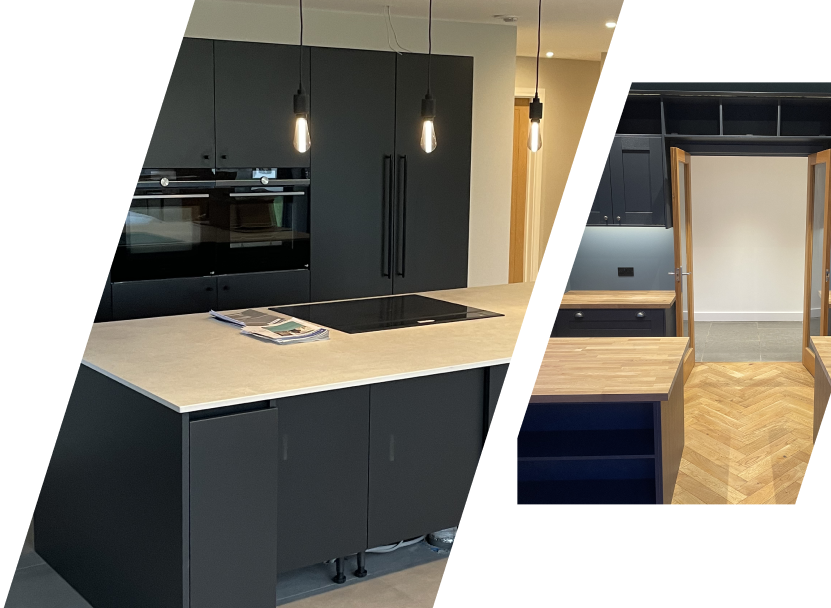
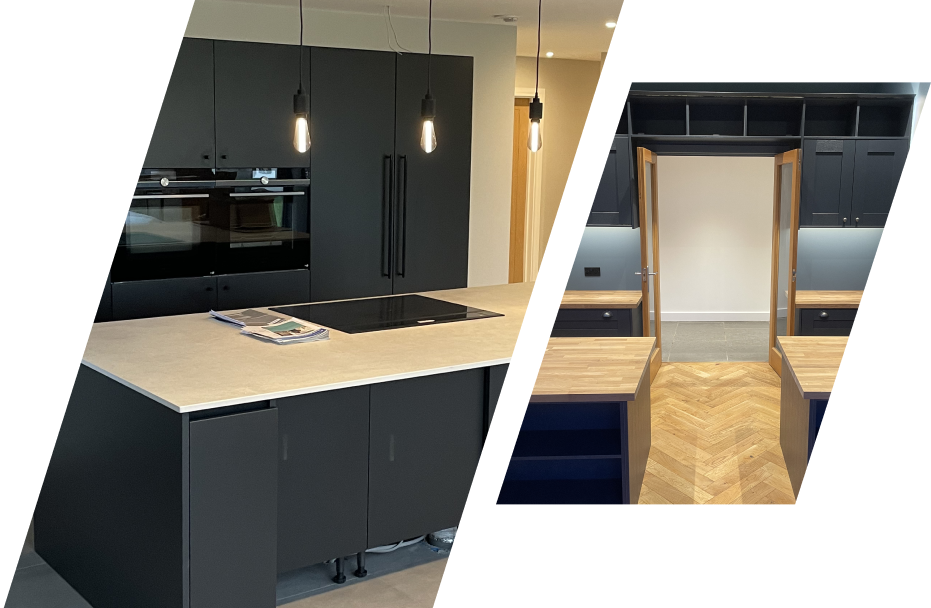
Updated hero area

diff --git a/css/hero.css b/css/hero.css
@@ -36,18 +36,22 @@
 }
 
 @media (min-width: 768px) {
+    .hero h1, .hero p {
+        max-width: 58%;
+    }
     .hero-container {
         height: 600px;
         align-items: flex-start;
+        background-size: unset;
     }
     .hero-container::after {
         content: "";
         display: block;
         height: 600px;
-        width: 50%;
+        width: 48%;
         background-image: url(../images/header.png);
-        background-size: contain;
         background-repeat: no-repeat;
         position: absolute;
+        right: 0;
     }
 }
